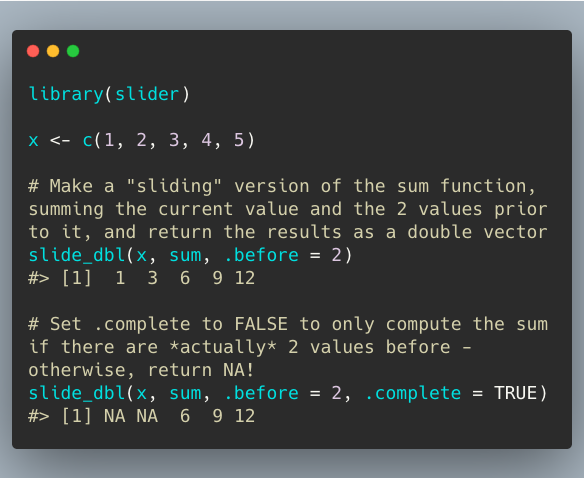
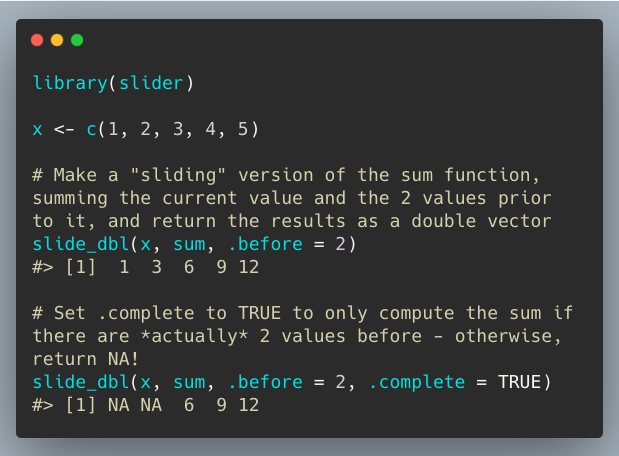
Fix wrong comment in slider_dbl

Changed region(s): [[0.0, 0.0307, 0.9863, 0.9825]]

diff --git a/2020-02-19/README.md b/2020-02-19/README.md
@@ -47,7 +47,7 @@ slide_dbl(x, sum, .before = 2)
     ## [1]  1  3  6  9 12
 
 ``` r
-# Set .complete to FALSE to only compute the sum if there are *actually* 2 values before - otherwise, return NA!
+# Set .complete to TRUE to only compute the sum if there are *actually* 2 values before - otherwise, return NA!
 slide_dbl(x, sum, .before = 2, .complete = TRUE)
 ```
 
